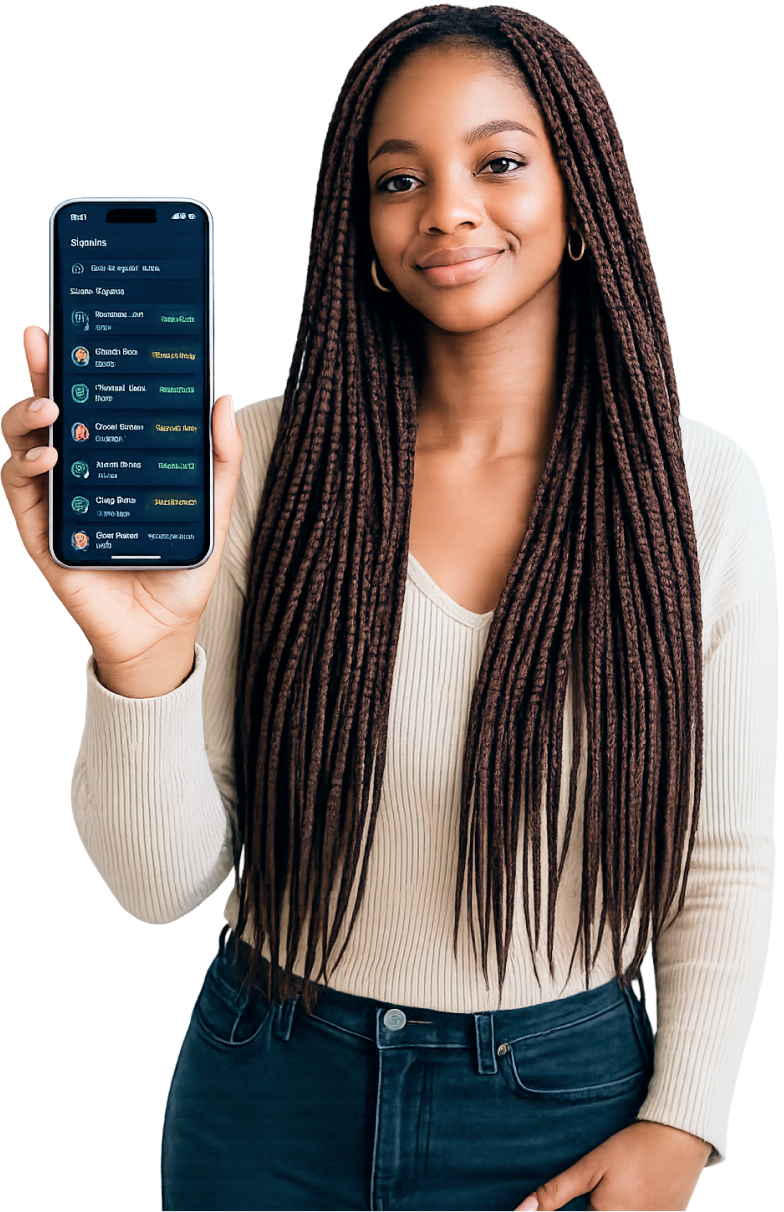
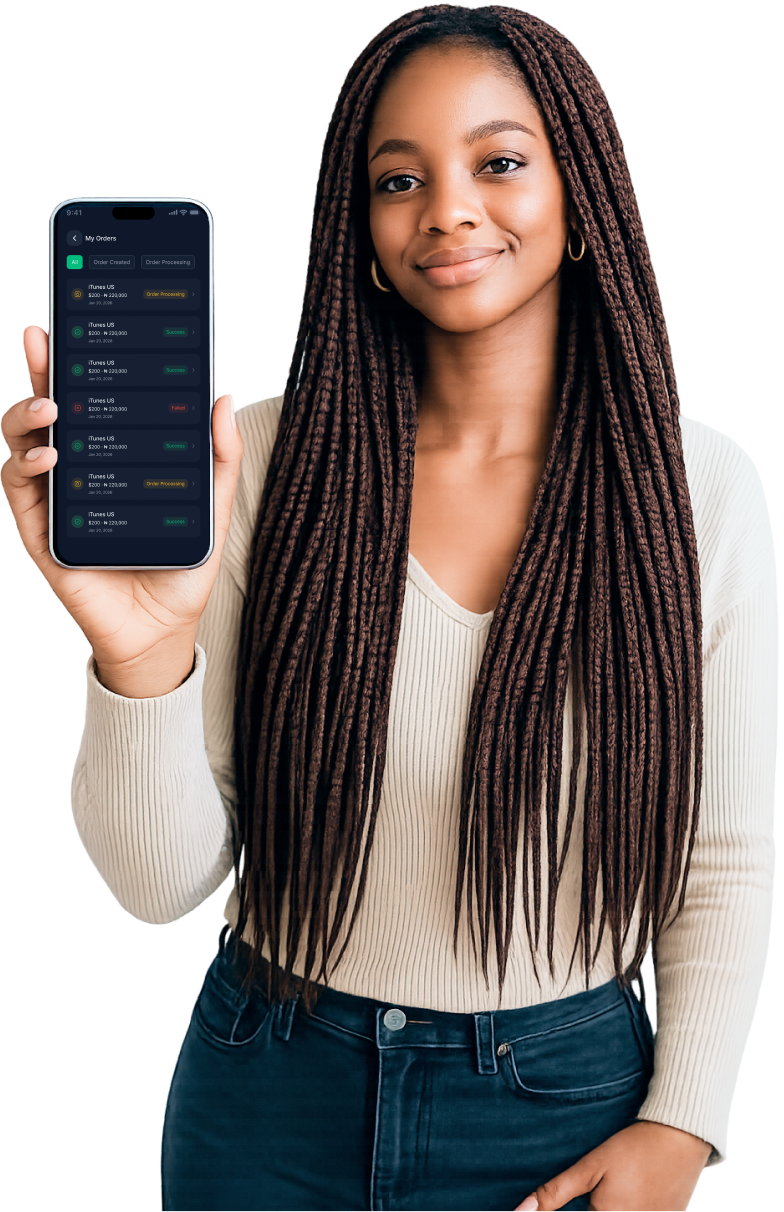
first commit

Changed region(s): [[0.0612, 0.1526, 0.2755, 0.4579]]

diff --git a/src/imports/Frame2147238094/index.tsx b/src/imports/Frame2147238094/index.tsx
@@ -989,21 +989,7 @@ function SupportBadge() {
 }
 
 function FeatureBadgesRow() {
-  return (
-    <div className="flex items-center">
-      <div className="inline-flex items-center gap-[12px] bg-white border border-[#c2ebdd] rounded-[12px] px-[18px] py-[12px] shadow-[0_4px_14px_rgba(0,0,0,0.08)]">
-        <div className="flex items-center justify-center rounded-[10px] shrink-0" style={{ background: 'linear-gradient(135deg, #2eba77, #026b6f)', width: 42, height: 42 }}>
-          <svg width="22" height="22" viewBox="0 0 24 24" fill="none">
-            <path d="M21 15a2 2 0 01-2 2H7l-4 4V5a2 2 0 012-2h14a2 2 0 012 2z" stroke="white" strokeWidth="2.2" strokeLinecap="round" strokeLinejoin="round"/>
-          </svg>
-        </div>
-        <div className="flex flex-col gap-[3px]">
-          <p className="[word-break:break-word] font-['Space_Grotesk',sans-serif] font-bold text-[#0f172a] text-[17px] leading-[1.2] whitespace-nowrap">Chat-Based Trading</p>
-          <p className="[word-break:break-word] font-['Space_Grotesk',sans-serif] text-[#757575] text-[13px] leading-[1.3] whitespace-nowrap">Instant · Secure · 24/7</p>
-        </div>
-      </div>
-    </div>
-  );
+  return null;
 }
 
 function Container4() {
@@ -1527,7 +1513,7 @@ export function MobileHowItWorksSection() {
   return (
     <div style={{ background: '#f5fafb', padding: '28px 20px 32px' }}>
       {/* Badge */}
-      <div style={{ display: 'flex', justifyContent: 'center', marginBottom: '12px' }}>
+      <div style={{ display: 'flex', justifyContent: 'center', marginBottom: '16px' }}>
         <div style={{ background: '#e6f7f2', borderRadius: '8px', padding: '6px 16px' }}>
           <span style={{ color: '#007a59', fontSize: '12px', fontWeight: 600, fontFamily: font, letterSpacing: '2px', textTransform: 'uppercase' }}>How it Works</span>
         </div>
@@ -1714,19 +1700,6 @@ export function MobileHero() {
         <p style={{ color: '#757575', fontSize: '14px', lineHeight: 1.65, margin: '0 0 24px', fontFamily: font, maxWidth: '320px' }}>
           CardChat makes it fast, safe, and rewarding to sell your iTunes, Amazon, Steam, Google Play, and other gift cards for instant Naira payouts.
         </p>
-
-        {/* Chat-based trading badge */}
-        <div style={{ display: 'inline-flex', alignItems: 'center', gap: '10px', background: 'white', border: '1px solid #c2ebdd', borderRadius: '12px', padding: '10px 16px', boxShadow: '0 4px 12px rgba(0,0,0,0.08)', marginBottom: '20px' }}>
-          <div style={{ background: 'linear-gradient(135deg, #2eba77, #026b6f)', borderRadius: '8px', width: 36, height: 36, display: 'flex', alignItems: 'center', justifyContent: 'center', flexShrink: 0 }}>
-            <svg width="20" height="20" viewBox="0 0 24 24" fill="none">
-              <path d="M21 15a2 2 0 01-2 2H7l-4 4V5a2 2 0 012-2h14a2 2 0 012 2z" stroke="white" strokeWidth="2.2" strokeLinecap="round" strokeLinejoin="round"/>
-            </svg>
-          </div>
-          <div style={{ textAlign: 'left' }}>
-            <div style={{ fontFamily: font, fontSize: '13px', fontWeight: 700, color: '#0f172a', lineHeight: 1.2 }}>Chat-Based Trading</div>
-            <div style={{ fontFamily: font, fontSize: '11px', color: '#757575', lineHeight: 1.4 }}>Instant · Secure · 24/7</div>
-          </div>
-        </div>
 
         {/* App store buttons */}
         <div style={{ display: 'flex', gap: '10px', marginBottom: '20px', flexWrap: 'wrap', justifyContent: 'center' }}>
@@ -3579,6 +3552,7 @@ function CtaAppStoreBadge() {
 function CtaAppStoreBtn() {
   return (
     <div className="bg-black col-1 content-stretch flex gap-[16px] items-center ml-0 mt-0 px-[24px] py-[16px] relative rounded-[16px] row-1 cursor-pointer transition-all duration-200 hover:-translate-y-0.5 hover:shadow-[0_12px_28px_rgba(0,0,0,0.25)] active:scale-[0.98]">
+      <div aria-hidden className="absolute border border-[#33b88b] border-solid inset-0 pointer-events-none rounded-[16px]" />
       <Group21 />
       <CtaAppStoreBadge />
     </div>
@@ -3951,9 +3925,9 @@ function Appstore3() {
 
 function DownloadStoreBtnsRow() {
   return (
-    <div className="content-stretch flex gap-[12px] items-center leading-[0] relative shrink-0">
-      <Appstore2 />
-      <Appstore3 />
+    <div className="flex gap-[24px] items-center">
+      <CtaAppStoreBtn />
+      <CtaGooglePlayBtn />
     </div>
   );
 }
@@ -4723,7 +4697,7 @@ function HowItWorksSection() {
         How it Works
       </p>
        </div>
-        <div className="scroll-animate flex flex-col items-center gap-[16px] mb-[60px] text-center">
+        <div className="scroll-animate flex flex-col items-center gap-[16px] mb-[60px] mt-[16px] text-center">
           <p className="font-['Poppins:Bold',sans-serif] leading-[56px] not-italic text-[#171d1d] text-[48px]">Quick Cash for Your Gift Cards</p>
           <p className="font-['Poppins:Regular',sans-serif] leading-[32px] not-italic text-[#3f484a] text-[20px]">Turn unused gift cards into instant cash through a<br>
           </br> simple, smooth, and reliable process.</p>
